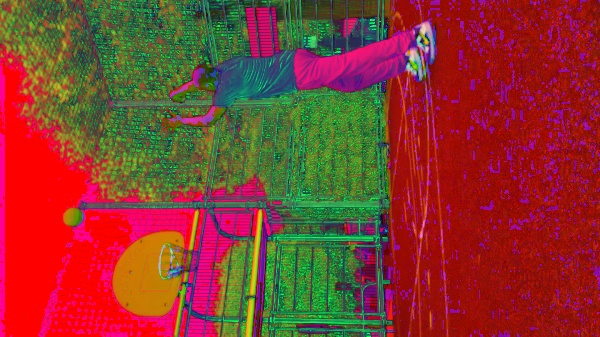
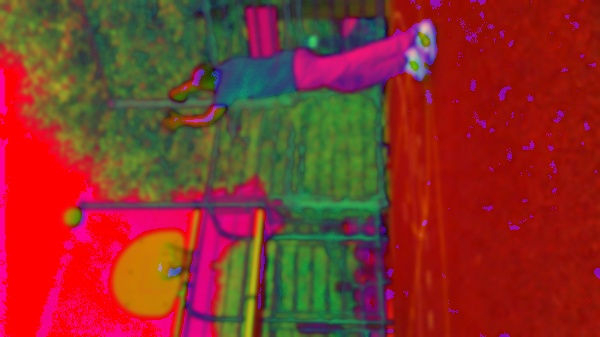
hoop center found

diff --git a/ball-tracking/ball_tracking.py b/ball-tracking/ball_tracking.py
@@ -16,48 +16,55 @@ import time
 ######################################################################################
 
 
-def findHoopLocation(vs):
+def findHoopCenterLocation(vs):
     vs.set(1, 5)
     boleen, frame = vs.read()
-
     frame = imutils.resize(frame, width=600)
-    cv2.imwrite("la frame de base"+'.jpg', frame)
-
+    # cv2.imwrite("la frame de base"+'.jpg', frame)
     blurred = cv2.GaussianBlur(frame, (11, 11), 0)
-    cv2.imwrite("la frame blurred"+'.jpg', blurred)
-
-    hsv = cv2.cvtColor(frame, cv2.COLOR_BGR2HSV)
-    cv2.imwrite("la frame hsv"+'.jpg', hsv)
-
+    # cv2.imwrite("la frame blurred"+'.jpg', blurred)
+    hsv = cv2.cvtColor(blurred, cv2.COLOR_BGR2HSV)
+    # cv2.imwrite("la frame hsv"+'.jpg', hsv)
     mask = cv2.inRange(hsv, redLower, redUpper)
-    cv2.imwrite("le mask"+'.jpg', mask)
-
+    # cv2.imwrite("le mask"+'.jpg', mask)
     mask = cv2.erode(mask, None, iterations=2)
     mask = cv2.dilate(mask, None, iterations=2)
-    cv2.imwrite("le mask apres traitement"+'.jpg', mask)
-
-    # cnts = cv2.findContours(
-    #     mask.copy(), cv2.RETR_EXTERNAL, cv2.CHAIN_APPROX_SIMPLE)
-    # cnts = imutils.grab_contours(cnts)
-    # center = None
-
+    # blurredMask = cv2.GaussianBlur(mask, (11, 11), 0)
+    # cv2.imwrite("le mask apres traitement"+'.jpg', mask)
+    cnts = cv2.findContours(
+        mask.copy(), cv2.RETR_EXTERNAL, cv2.CHAIN_APPROX_SIMPLE)
+    cnts = imutils.grab_contours(cnts)
     # only proceed if at least one contour was found
-    # if len(cnts) > 0:
-    #     # find the largest contour in the mask, then use
-    #     # it to compute the minimum enclosing circle and
-    #     # centroid
-    #     c = max(cnts, key=cv2.contourArea)
-    #     ((x, y), radius) = cv2.minEnclosingCircle(c)
-    #     M = cv2.moments(c)
-    #     center = (int(M["m10"] / M["m00"]), int(M["m01"] / M["m00"]))
+    if len(cnts) > 0:
+        # countShapesSides = 10
+        circleContour = None
+        # for c in cnts:
+        #     # compute the center of the contour
+        #     # M = cv2.moments(c)
+        #     # cX = int(M["m10"] / M["m00"])
+        #     # cY = int(M["m01"] / M["m00"])
 
-    #     # only proceed if the radius meets a minimum size
-    #     if radius > 10:
-    #         # draw the circle and centroid on the frame,
-    #         # then update the list of tracked points
-    #         cv2.circle(frame, (int(x), int(y)), int(radius),
-    #                    (0, 255, 255), 2)
-    #         cv2.circle(frame, center, 5, (0, 0, 255), -1)
+        #     peri = cv2.arcLength(c, True)
+        #     approx = cv2.approxPolyDP(c, 0.04 * peri, True)
+        #     print len(approx)
+        #     if len(approx) < countShapesSides:
+        #         countShapesSides = len(approx)
+        #         circleContour = c
+        circleContour = max(cnts, key=cv2.contourArea)
+        # draw the contour and center of the shape on the image
+
+        M = cv2.moments(circleContour)
+        cX = int(M["m10"] / M["m00"])
+        cY = int(M["m01"] / M["m00"])
+        cv2.drawContours(frame, [circleContour], -1, (0, 255, 0), 2)
+        cv2.circle(frame, (cX+16, cY-14), 3, (255, 255, 255), -1)
+        # show the image
+        cv2.imshow("les contours", frame)
+        cv2.waitKey(0)
+        return (cX+16, cY-14)
+    else:
+        print "pas de contour trouve"
+        return None
 
 
 def findAndShowBallLocation(frame, orangeLower, orangeUpper):
@@ -127,22 +134,21 @@ def findAndShowBallLocation(frame, orangeLower, orangeUpper):
 orangeLower = (7, 100, 20)
 orangeUpper = (22, 250, 255)
 
-redLower = (0, 150, 20)
-redUpper = (5, 255, 255)
+redLower = (0, 100, 20)
+redUpper = (10, 255, 255)
 
 dequeLength = 64
 videoName = "test_video.MOV"
 
 pts = deque(maxlen=dequeLength)
 
-vs2 = cv2.VideoCapture(videoName)
+vsHoop = cv2.VideoCapture(videoName)
+
 time.sleep(2.0)
 
-findHoopLocation(vs2)
+(xHoop, yHoop) = findHoopCenterLocation(vsHoop)
+vsHoop.release()
 
-vs2.release()
-
-# grab a reference to the video file
 vs = cv2.VideoCapture(videoName)
 
 # allow the camera or video file to warm up
